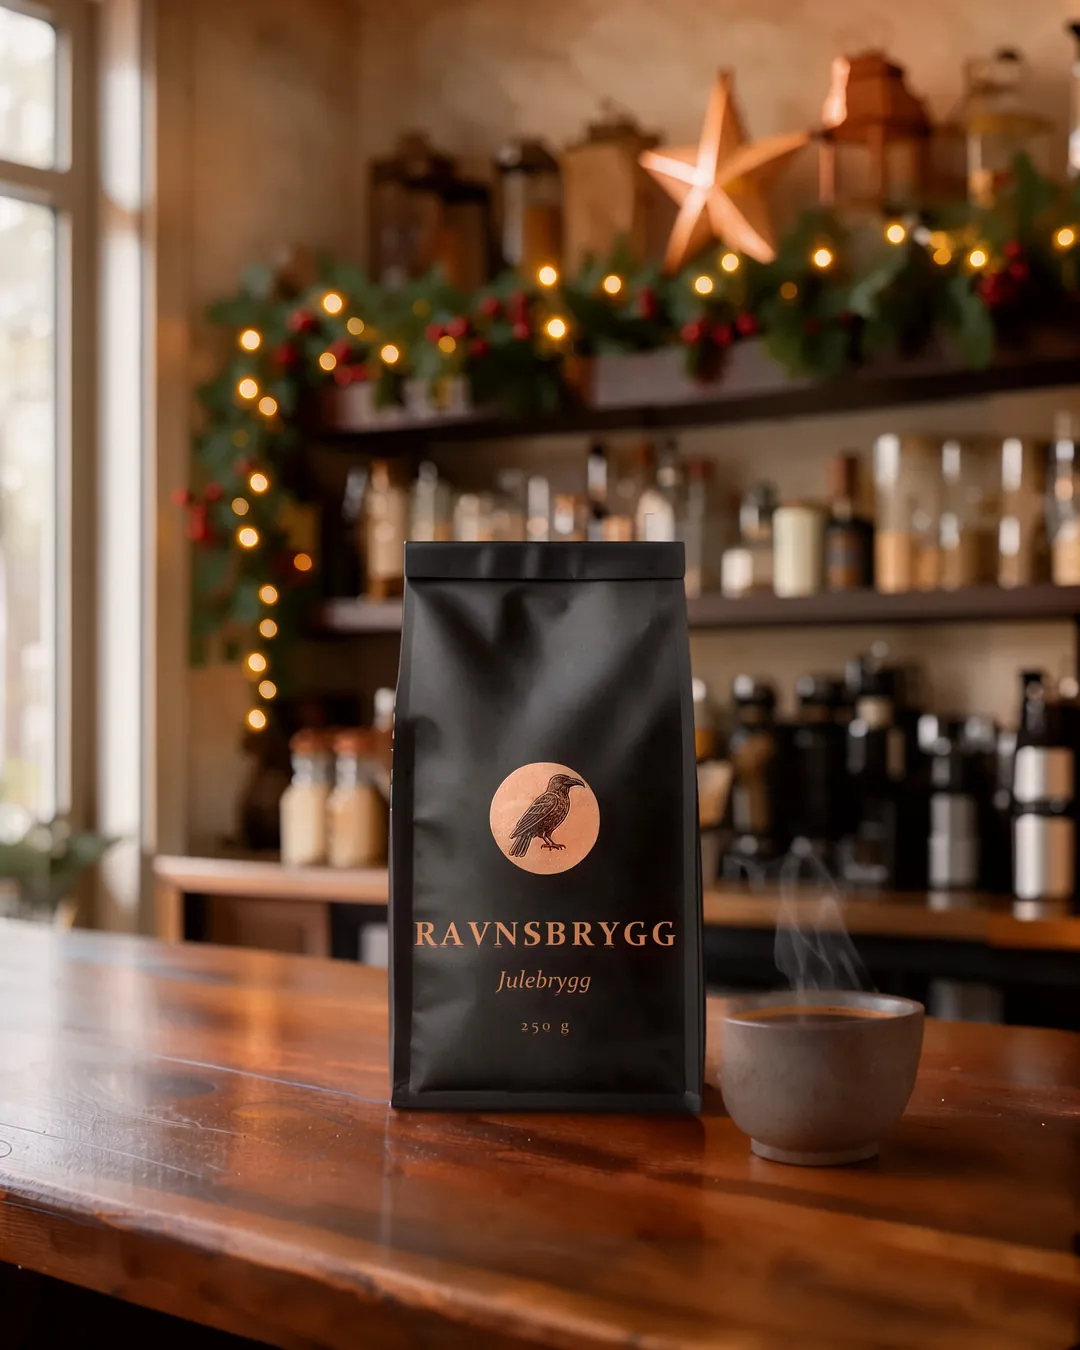
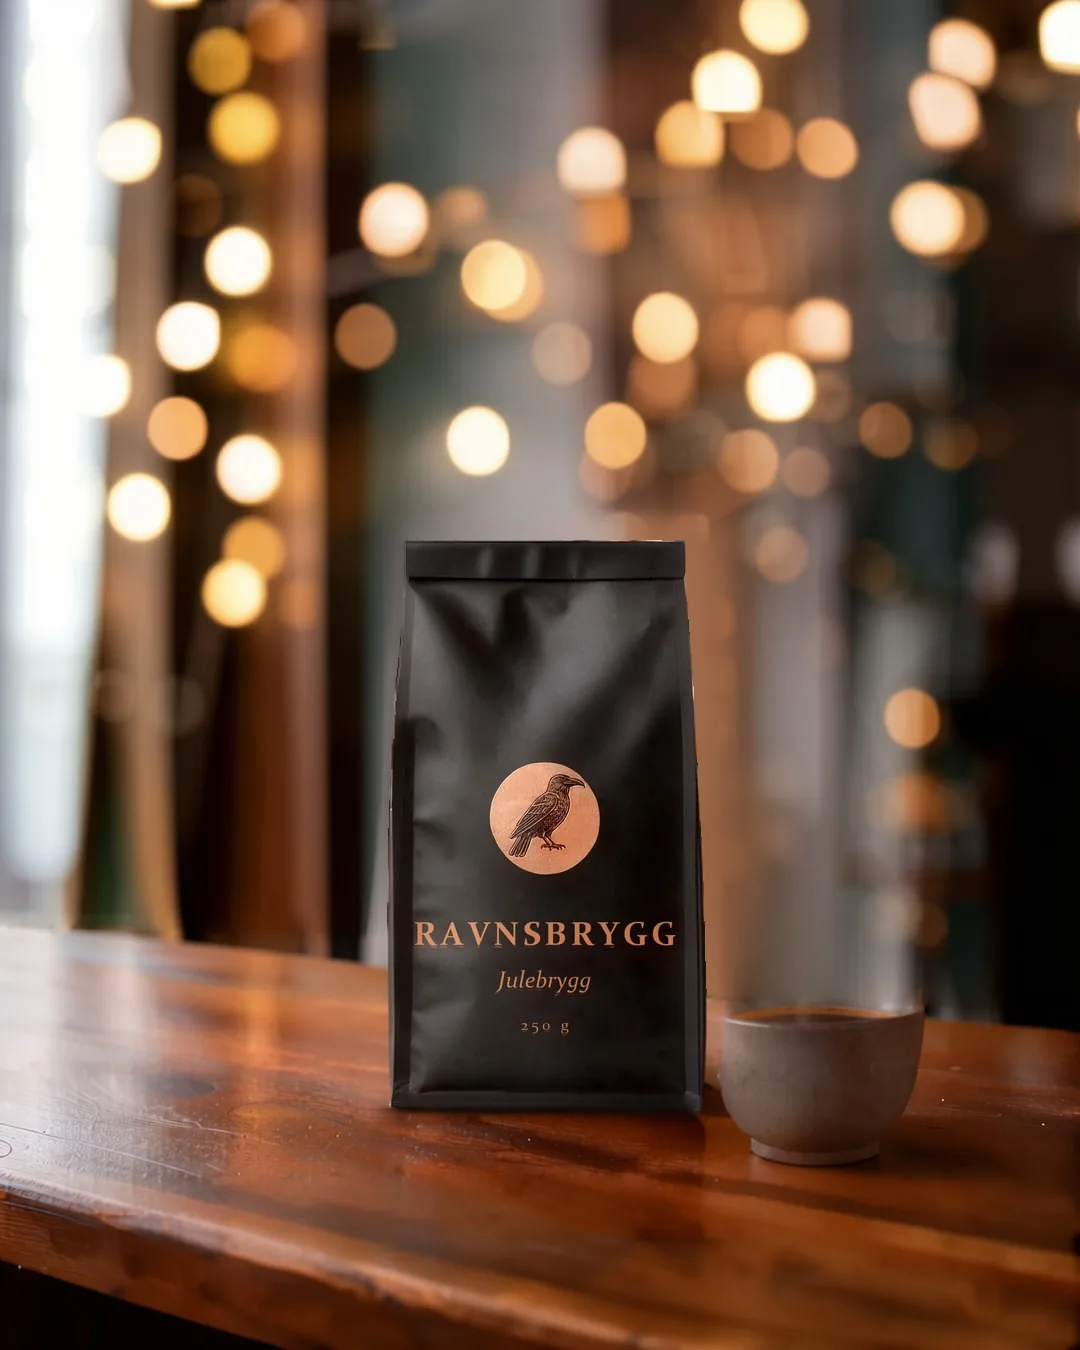
produktbilder: roligere kafébilde for Ravnsbrygg, tydeligere annonsetekst
Claude-Session: https://claude.ai/code/session_01XYMWMmzZAfnwjmekNJhn6w

diff --git a/produktbilder/index.html b/produktbilder/index.html
@@ -157,7 +157,7 @@ h1 .sm{display:block;font-size:.5em;line-height:1.05;color:var(--muted);font-sty
 .ig figure{aspect-ratio:4/5}
 .ad figure{aspect-ratio:1}
 .ad figure>img{object-position:50% 55%}
-.ad .copy{position:absolute;left:0;right:0;top:0;padding:18px 18px 44px;background:linear-gradient(rgba(0,0,0,.62),transparent);color:#fff;font:400 30px/1 var(--serif)}
+.ad .copy{position:absolute;left:0;right:0;top:0;padding:18px 18px 72px;background:linear-gradient(rgba(0,0,0,.78),rgba(0,0,0,.45) 55%,transparent);color:#fff;font:400 30px/1 var(--serif);text-shadow:0 1px 12px rgba(0,0,0,.5)}
 .ad .copy small{display:block;font:600 12px/1 var(--sans);letter-spacing:.12em;text-transform:uppercase;margin-top:10px;color:var(--gul)}
 
 /* slik */
@@ -332,7 +332,7 @@ html.lenis,html.lenis body{height:auto}.lenis.lenis-smooth{scroll-behavior:auto!
     <div class="tile for"><img src="img/lunnhei-for.webp" srcset="img/lunnhei-for-540.webp 540w, img/lunnhei-for.webp 1080w" sizes="(max-width:900px) 200px, 280px" width="1080" height="1350" alt="Før: nattkremen på hvit bakgrunn" decoding="async"><span class="chip">Før</span></div>
     <div class="tile"><img src="img/lunnhei-kveld.webp" srcset="img/lunnhei-kveld-540.webp 540w, img/lunnhei-kveld.webp 1080w" sizes="(max-width:900px) 200px, 280px" width="1080" height="1350" alt="Etter: nattkremen på en rosa terrazzobenk med varme lys i bakgrunnen" decoding="async"></div>
     <div class="tile for"><img src="img/ravnsbrygg-for.webp" srcset="img/ravnsbrygg-for-540.webp 540w, img/ravnsbrygg-for.webp 1080w" sizes="(max-width:900px) 200px, 280px" width="1080" height="1350" alt="Før: kaffeposen på hvit bakgrunn" decoding="async"><span class="chip">Før</span></div>
-    <div class="tile"><img src="img/ravnsbrygg-kafe.webp" srcset="img/ravnsbrygg-kafe-540.webp 540w, img/ravnsbrygg-kafe.webp 1080w" sizes="(max-width:900px) 200px, 280px" width="1080" height="1350" alt="Etter: kaffeposen på en kafédisk med en kopp kaffe og julelys" decoding="async"></div>
+    <div class="tile"><img src="img/ravnsbrygg-kafe.webp" srcset="img/ravnsbrygg-kafe-540.webp 540w, img/ravnsbrygg-kafe.webp 1080w" sizes="(max-width:900px) 200px, 280px" width="1080" height="1350" alt="Etter: kaffeposen på en kafédisk med en kopp kaffe og varme lys i bakgrunnen" decoding="async"></div>
     <div class="tile for"><img src="img/vardlys-for.webp" srcset="img/vardlys-for-540.webp 540w, img/vardlys-for.webp 1080w" sizes="(max-width:900px) 200px, 280px" width="1080" height="1350" alt="Før: duftlyset på hvit bakgrunn" decoding="async"><span class="chip">Før</span></div>
     <div class="tile"><img src="img/vardlys-vindu.webp" srcset="img/vardlys-vindu-540.webp 540w, img/vardlys-vindu.webp 1080w" sizes="(max-width:900px) 200px, 280px" width="1080" height="1350" alt="Etter: duftlyset tent i en vinduskarm en vinterkveld" decoding="async"></div>
   </div>
@@ -345,13 +345,13 @@ html.lenis,html.lenis body{height:auto}.lenis.lenis-smooth{scroll-behavior:auto!
       <p class="label">Tre demoprodukter, tilpasset jul</p>
       <h2 style="margin:24px 0 30px">Hver butikk får <em>sin egen stil.</em></h2>
       <div class="tabs" role="tablist" aria-label="Velg bilde">
-        <button class="tab" role="tab" aria-selected="true" aria-controls="m1" id="t1"><span>01</span><b>Kaffe på kafé</b><small>Kafédisk, en kopp kaffe og julelys på hylla. Til nettbutikken og julekampanjen.</small></button>
+        <button class="tab" role="tab" aria-selected="true" aria-controls="m1" id="t1"><span>01</span><b>Kaffe på kafé</b><small>Kafédisk, en kopp kaffe og varme julelys bak. Til nettbutikken og julekampanjen.</small></button>
         <button class="tab" role="tab" aria-selected="false" aria-controls="m3" id="t3"><span>02</span><b>Nattkrem</b><small>Terrazzobenk på badet en desemberkveld, med varme lys bak. Rolig og rent, i merkets egne farger.</small></button>
         <button class="tab" role="tab" aria-selected="false" aria-controls="m4" id="t4"><span>03</span><b>Duftlys</b><small>Vinduskarm, strikkepledd og granbar en vinterkveld. Varmt og nordisk.</small></button>
       </div>
     </div>
     <div class="stage rv mask">
-      <div class="pane on" id="m1" role="tabpanel" aria-labelledby="t1"><img src="img/ravnsbrygg-kafe.webp" srcset="img/ravnsbrygg-kafe-540.webp 540w, img/ravnsbrygg-kafe.webp 1080w" sizes="(max-width:900px) 92vw, 640px" width="1080" height="1350" alt="Kaffeposen på en kafédisk med en kopp kaffe og julelys" loading="lazy" decoding="async"><div class="inset"><img src="img/ravnsbrygg-for.webp" srcset="img/ravnsbrygg-for-540.webp 540w, img/ravnsbrygg-for.webp 1080w" sizes="160px" width="1080" height="1350" alt="Før: kaffeposen på hvit bakgrunn" loading="lazy" decoding="async"><b>Før</b></div></div>
+      <div class="pane on" id="m1" role="tabpanel" aria-labelledby="t1"><img src="img/ravnsbrygg-kafe.webp" srcset="img/ravnsbrygg-kafe-540.webp 540w, img/ravnsbrygg-kafe.webp 1080w" sizes="(max-width:900px) 92vw, 640px" width="1080" height="1350" alt="Kaffeposen på en kafédisk med en kopp kaffe og varme lys i bakgrunnen" loading="lazy" decoding="async"><div class="inset"><img src="img/ravnsbrygg-for.webp" srcset="img/ravnsbrygg-for-540.webp 540w, img/ravnsbrygg-for.webp 1080w" sizes="160px" width="1080" height="1350" alt="Før: kaffeposen på hvit bakgrunn" loading="lazy" decoding="async"><b>Før</b></div></div>
       <div class="pane" id="m3" role="tabpanel" aria-labelledby="t3"><img src="img/lunnhei-kveld.webp" srcset="img/lunnhei-kveld-540.webp 540w, img/lunnhei-kveld.webp 1080w" sizes="(max-width:900px) 92vw, 640px" width="1080" height="1350" alt="Nattkremen på en rosa terrazzobenk en desemberkveld, med varme lys i bakgrunnen" loading="lazy" decoding="async"><div class="inset"><img src="img/lunnhei-for.webp" srcset="img/lunnhei-for-540.webp 540w, img/lunnhei-for.webp 1080w" sizes="160px" width="1080" height="1350" alt="Før: nattkremen på hvit bakgrunn" loading="lazy" decoding="async"><b>Før</b></div></div>
       <div class="pane" id="m4" role="tabpanel" aria-labelledby="t4"><img src="img/vardlys-vindu.webp" srcset="img/vardlys-vindu-540.webp 540w, img/vardlys-vindu.webp 1080w" sizes="(max-width:900px) 92vw, 640px" width="1080" height="1350" alt="Duftlyset tent i en vinduskarm en vinterkveld" loading="lazy" decoding="async"><div class="inset"><img src="img/vardlys-for.webp" srcset="img/vardlys-for-540.webp 540w, img/vardlys-for.webp 1080w" sizes="160px" width="1080" height="1350" alt="Før: duftlyset på hvit bakgrunn" loading="lazy" decoding="async"><b>Før</b></div></div>
     </div>
